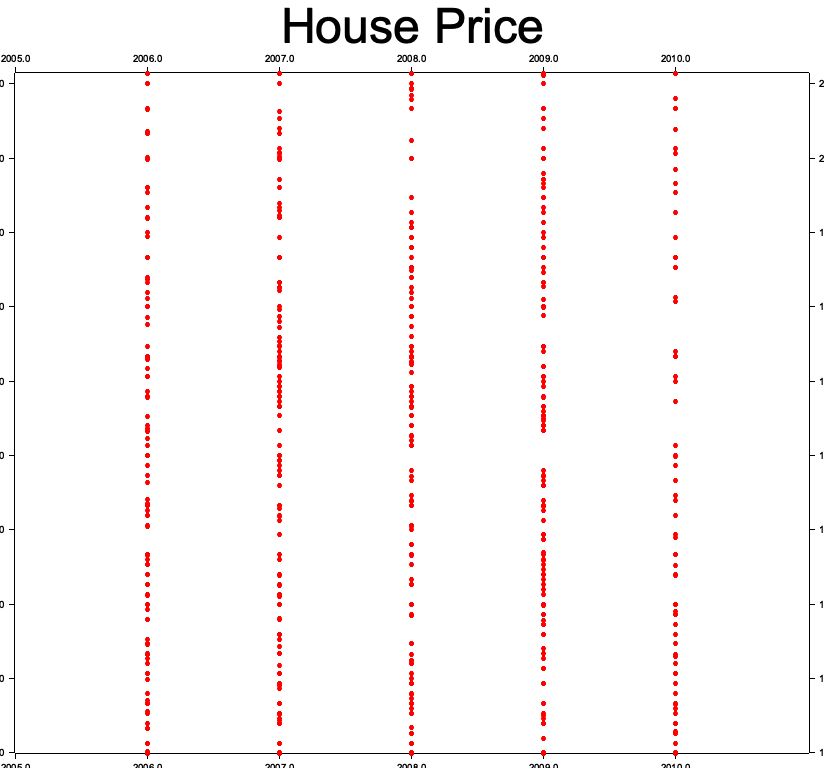
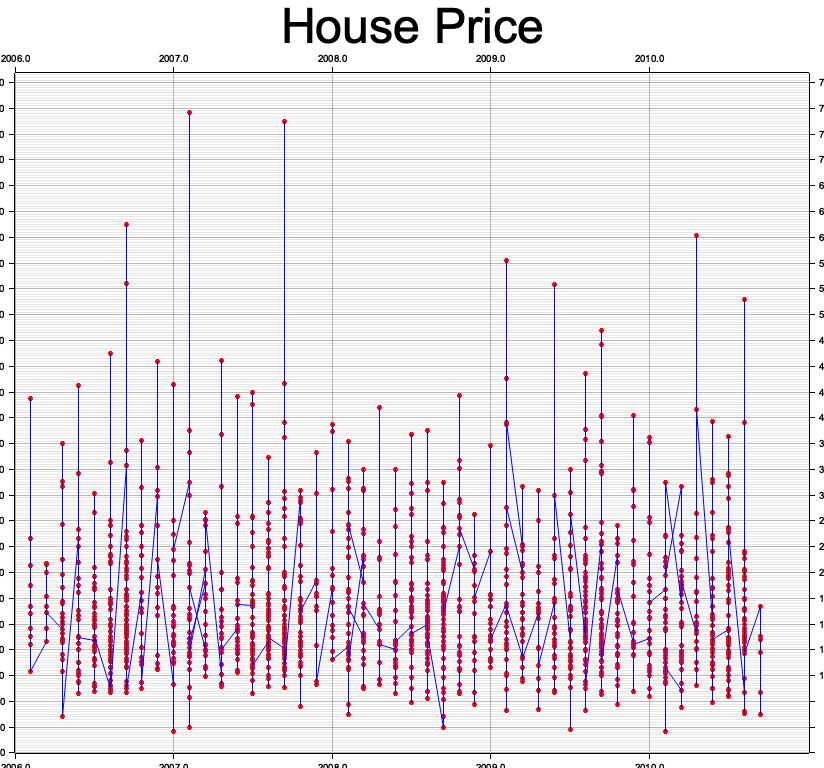
feat:house_price_

diff --git a/src/kaggle/house_price/house_price.rs b/src/kaggle/house_price/house_price.rs
@@ -16,8 +16,10 @@ pub fn main(){
     println!("{}",train_df);
 
 
-    let mut c= train_df.select(["YrSold","SalePrice"]).unwrap();
-    let c= c.sort(&["YrSold"], vec![false, true], true).unwrap();
+    let mut c= train_df.select(["YrSold","SalePrice","MoSold"]).unwrap();
+    let c: DataFrame= c.sort(&["YrSold","MoSold"], vec![false, false], true).unwrap();
+    // let c= c.sort(&["MoSold"], vec![false, true], true).unwrap();
+
     let  x_train: ArrayBase<ndarray::OwnedRepr<f32>, Dim<[usize; 2]>> = c.to_ndarray::<Float32Type>(IndexOrder::Fortran).unwrap();
     
     println!("{:?}",x_train);
@@ -34,11 +36,12 @@ pub fn main(){
     let mut linear_function = ChartBuilder::on(&root_area)
     .margin(5)
     .set_all_label_area_size(10)
-    .build_cartesian_2d((2005f32..2011f32).step(1f32), (140000.0..208500f32).step(1500f32)).unwrap();
+    .build_cartesian_2d((2006f32..2011f32).step(1f32), (10000.0..800000f32).step(1500f32)).unwrap();
 
     linear_function
     .configure_mesh()
-    .disable_mesh()
+    .x_labels(11)
+    .y_labels(31)
     .x_label_formatter(&|v| format!("{:.1}", v))
     .y_label_formatter(&|v| format!("{:.1}", v))
     .draw()
@@ -46,8 +49,8 @@ pub fn main(){
 
    
 
-linear_function.draw_series(PointSeries::of_element(
-    data.into_iter().map(|x|x).step_by(1).map(|x| (x[0], x[1])),
+    linear_function.draw_series(PointSeries::of_element(
+    &mut data.clone().into_iter().map(|x| ((x[0] + x[2] / 10.0), x[1])),
     2,
     ShapeStyle::from(&RED).filled(),
     &|coord, size, style| {
@@ -56,9 +59,10 @@ linear_function.draw_series(PointSeries::of_element(
             // + Text::new(format!("{:?}", coord), (0, 15), ("sans-serif", 15))
     },
 )).unwrap();
-// linear_function.draw_series(LineSeries::new(
-//     data.into_iter().map(|x|x).step_by(1).map(|x| (x[0], x[1])), 
-//     &BLUE,
-// ))
-// .unwrap();
+
+    linear_function.draw_series(LineSeries::new(
+    &mut data.clone().into_iter().map(|x| ((x[0] + x[2] / 10.0), x[1])),
+    &BLUE,
+))
+.unwrap();
 }
